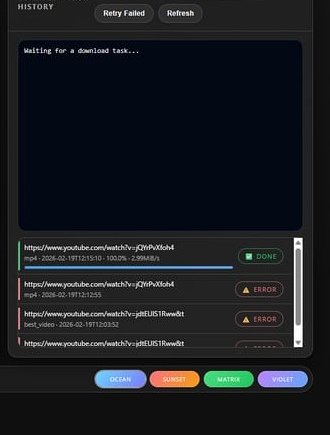
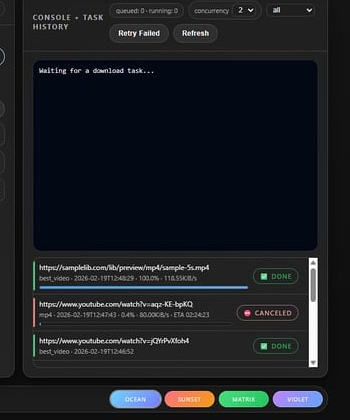
Refresh Web UI screenshots with real running and completed download states

diff --git a/README.md b/README.md
@@ -97,13 +97,13 @@ Disable auto-start:
 
 ![PipeDL Web UI overview](docs/assets/screenshots/webui-overview.jpg)
 
-### Focus: Download Studio
+### Focus: active download (running progress)
 
-![PipeDL Download Studio panel](docs/assets/screenshots/webui-download-studio-focus.jpg)
+![PipeDL Web UI running task progress](docs/assets/screenshots/webui-download-studio-focus.jpg)
 
-### Focus: Console + Task History
+### Focus: completed download (done state)
 
-![PipeDL Console and Task History panel](docs/assets/screenshots/webui-console-history-focus.jpg)
+![PipeDL Web UI completed task state](docs/assets/screenshots/webui-console-history-focus.jpg)
 
 ## 📸 Screenshots (Extension)
 

diff --git a/yt-dlp-gui/README.md b/yt-dlp-gui/README.md
@@ -28,9 +28,9 @@ Open: `http://localhost:5000`
 
 ![PipeDL Web UI overview](../docs/assets/screenshots/webui-overview.jpg)
 
-![PipeDL Download Studio panel](../docs/assets/screenshots/webui-download-studio-focus.jpg)
+![PipeDL Web UI running task progress](../docs/assets/screenshots/webui-download-studio-focus.jpg)
 
-![PipeDL Console and Task History panel](../docs/assets/screenshots/webui-console-history-focus.jpg)
+![PipeDL Web UI completed task state](../docs/assets/screenshots/webui-console-history-focus.jpg)
 
 ---
 
